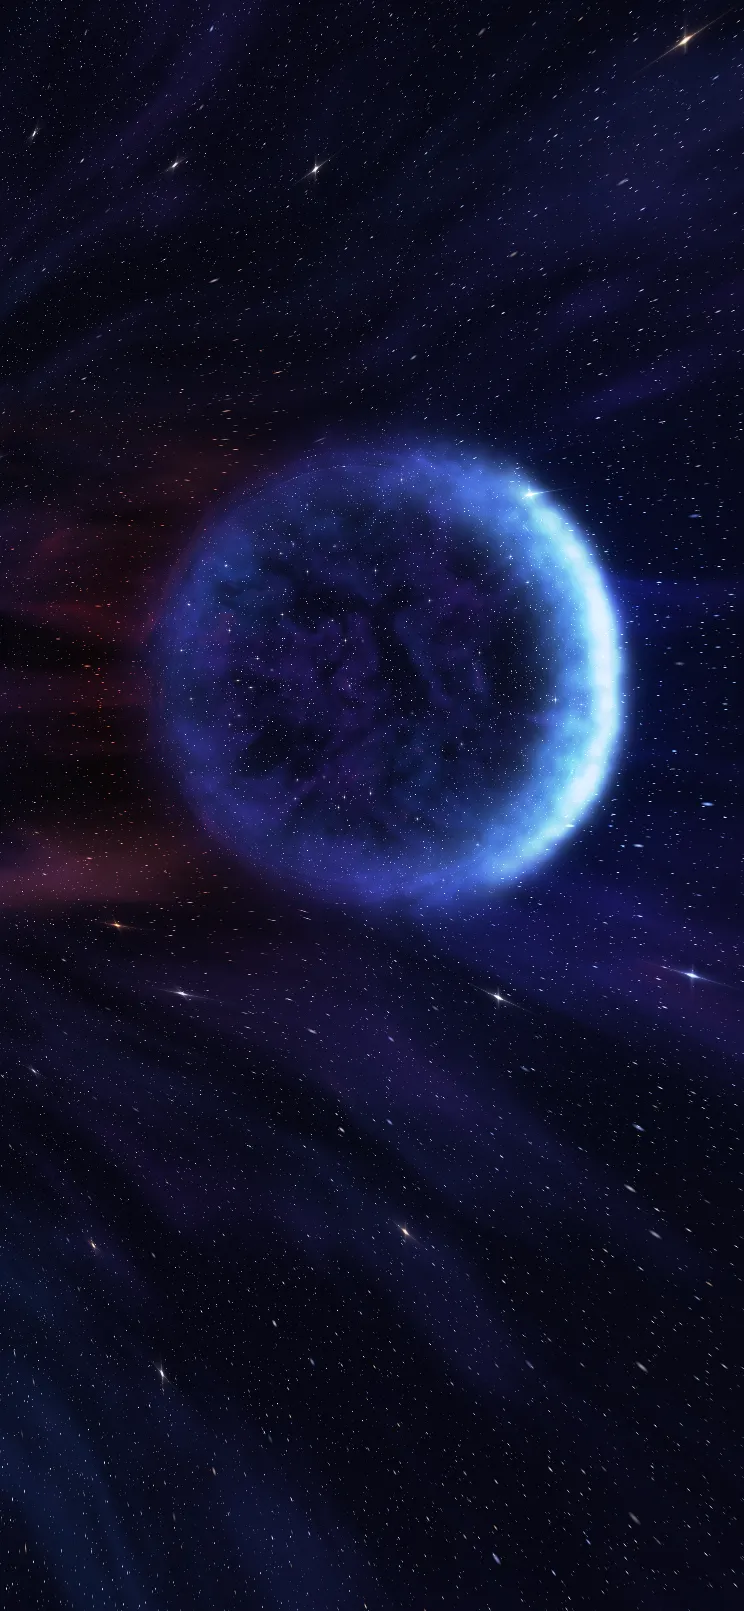
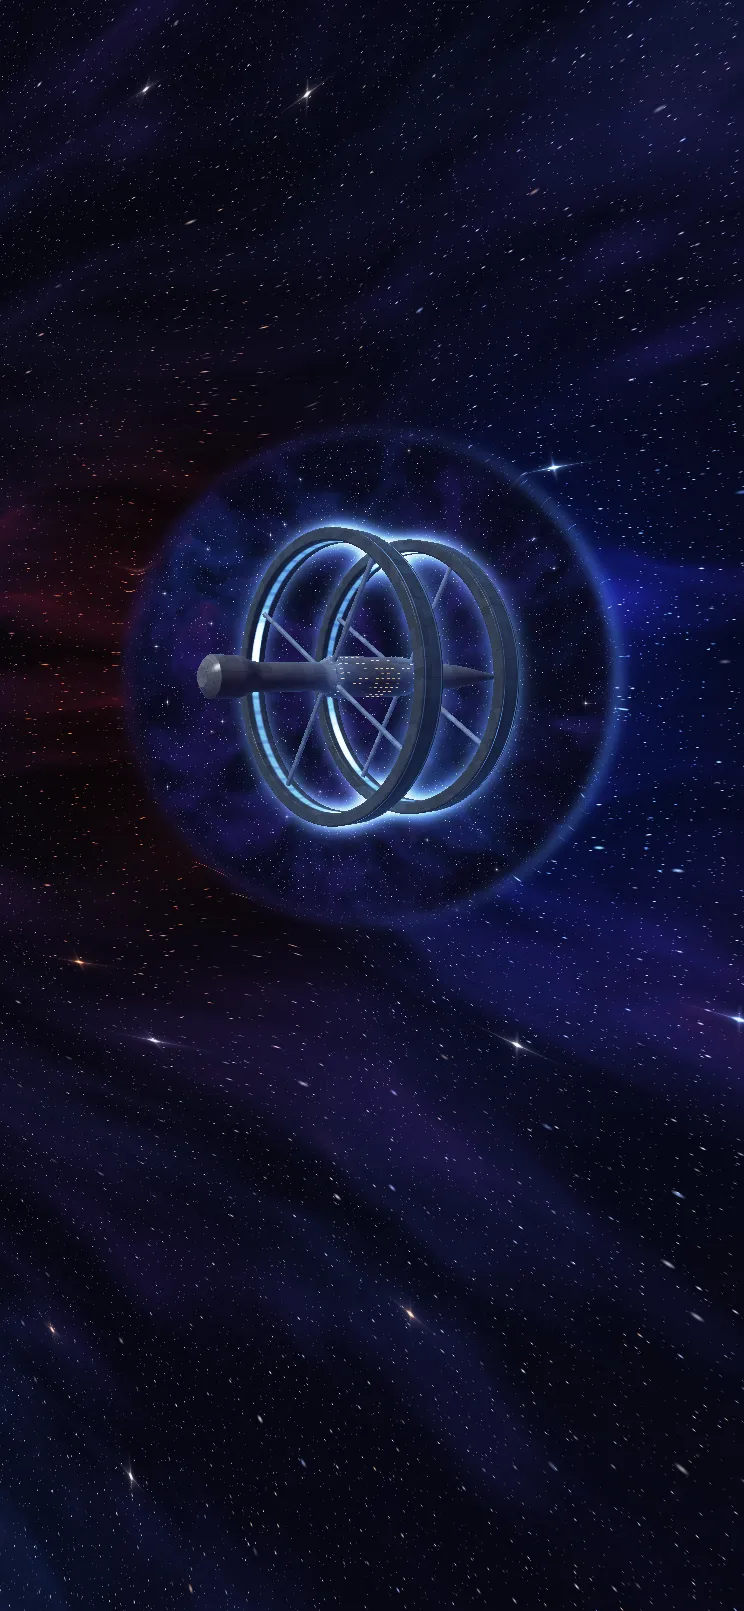
💄 style: Redraw the Warp Drive as a ring-drive machine

diff --git a/src/scene/scenes/warp-drive/index.tsx b/src/scene/scenes/warp-drive/index.tsx
@@ -1,12 +1,13 @@
 /**
- * Warp Drive (D-153): our own illustration of the Alcubierre warp drive, an idea inside the
- * Starbase. No ship is drawn (DESIGN_SPEC 2): only the bubble of calm, flat space it would ride in,
- * moving to the right. Ahead of it space is squeezed: the stars bunch up against the bubble's
- * front and shift blue; behind it space is stretched: the stars are drawn out thin and shift red.
- * Outside, the sky streams past; inside, it is nearly still. Where the two meet, a turbulent
- * sheath of glowing gas, a bright bow ahead and long wisps trailing behind, reads as the wall of
- * the bubble. One full-screen shader, one draw call, no particles. Its own colour family: indigo,
- * electric blue and ember red.
+ * Warp Drive (D-153, redrawn in D-191): our own illustration of an Alcubierre drive, an idea inside
+ * the Starbase, as a machine. A long, slender gunmetal hull, nose to the right, runs through two
+ * great rings, as warp craft are often drawn. The rings are the drive: each
+ * a band of dark plating on four struts, its inner face a channel of electric-blue light with pulses
+ * of energy running round it, and a soft glow of field about them. The craft sits in its bubble of
+ * calm space: outside, the sky streams past, bunched and shifted blue ahead, drawn out into red
+ * streaks behind; only a faint lens marks where the bubble's wall bends the starlight. Ray-marched
+ * in one full-screen shader: one draw call, no particles. Its own colour family: indigo, electric
+ * blue and ember red, with a gunmetal hull.
  */
 
 import type { SceneBudget, SceneProps } from "../../host/types";
@@ -26,68 +27,195 @@ ${SKY_CHUNK}
 const vec3 INDIGO = vec3(0.24, 0.2, 0.7);
 const vec3 BLUE = vec3(0.35, 0.65, 1.0);
 const vec3 EMBER = vec3(1.0, 0.36, 0.16);
+const vec3 METAL = vec3(0.5, 0.53, 0.6);
+const vec3 AMBER = vec3(1.0, 0.68, 0.32);
 
-float swirlIn(vec2 u, float t){ return fbm3(vec3(u * 2.0, t * 0.05 + 11.0)); }
+const float RING_R = 0.72;           // the rings' radius
+const float RING_A = -0.3;           // where they stand along the hull
+const float RING_B = 0.24;
+const float BUBBLE = 1.32;           // the bubble's radius on screen
 
 /* the sky in a flat 2D frame: x along the flight, y across it */
 vec3 skyAt(vec2 p){
   return skyDeep(normalize(vec3(p * 0.9, -1.0)), 0.6);
 }
 
+/* the hull's radius along its length: a needle nose, a broad middle, a stepped stern */
+float hullR(float x){
+  float nose = smoothstep(1.16, 0.55, x);
+  float mid = 0.035 * smoothstep(0.34, 0.24, abs(x + 0.03));       // the broad middle, between the rings
+  float stern = 0.03 * smoothstep(-0.74, -0.86, x);                // the engine block at the stern
+  float cap = sqrt(clamp((x + 1.03) / 0.05, 0.0, 1.0));             // rounded off at the very end
+  return (0.07 * nose + mid + stern) * cap;
+}
+
+float hull(vec3 p){
+  float x = clamp(p.x, -1.02, 1.16);
+  float d = length(p.yz) - hullR(x);
+  d = max(d, abs(p.x - 0.07) - 1.09);
+  return d * 0.8;
+}
+
+/* one ring: a flat band, wider along the hull than it is thick */
+float ringAt(vec3 p, float xr){
+  vec2 q = vec2(length(p.yz) - RING_R, p.x - xr);
+  vec2 b = abs(q) - vec2(0.022, 0.055);
+  return min(max(b.x, b.y), 0.0) + length(max(b, 0.0)) - 0.008;
+}
+
+float rings(vec3 p){ return min(ringAt(p, RING_A), ringAt(p, RING_B)); }
+
+/* four struts from the hull out to each ring, set at 45 degrees */
+float struts(vec3 p){
+  float a = atan(p.z, p.y) + TAU / 8.0;
+  float sector = TAU / 4.0;
+  a = mod(a + sector * 0.5, sector) - sector * 0.5;
+  float rho = length(p.yz);
+  vec2 s = vec2(rho * cos(a), rho * sin(a));
+  float along = abs(s.x - (RING_R + 0.08) * 0.5) - (RING_R - 0.08) * 0.5;
+  float da = max(along, length(vec2(s.y, p.x - RING_A)) - 0.011);
+  float db = max(along, length(vec2(s.y, p.x - RING_B)) - 0.011);
+  return min(da, db);
+}
+
+/* id: 0 hull, 1 ring, 2 strut */
+float craft(vec3 p, out float id){
+  float h = hull(p);
+  float r = rings(p);
+  float s = struts(p);
+  float d = h;
+  id = 0.0;
+  if (r < d) { d = r; id = 1.0; }
+  if (s < d) { d = s; id = 2.0; }
+  return d;
+}
+
+float sdf(vec3 p){ float id; return craft(p, id); }
+
+vec3 normalAt(vec3 p){
+  vec2 e = vec2(0.0012, 0.0);
+  return normalize(vec3(sdf(p + e.xyy) - sdf(p - e.xyy), sdf(p + e.yxy) - sdf(p - e.yxy), sdf(p + e.yyx) - sdf(p - e.yyx)));
+}
+
+/* the pulses of energy running round a ring, 0 to 1 */
+float pulses(vec3 p, float xr, float t){
+  float a = atan(p.z, p.y);
+  float dir = xr > 0.0 ? 1.0 : -1.0;                // the two rings run opposite ways
+  float w = 0.5 + 0.5 * sin(a * 3.0 - dir * t * 2.6 + xr * 4.0);
+  return 0.35 + 0.65 * pow(w, 6.0);
+}
+
 void main(){
   vec2 css = vec2(gl_FragCoord.x, uResolution.y - gl_FragCoord.y) / uDpr;
   vec2 q = css - uCentre;
   q.y = -q.y;
-  vec2 u = q / uScale;     // the bubble's radii, y up; it flies toward +x
+  vec2 u = q / uScale;     // the craft's lengths, y up
   float t = uTime;
-  // the drag turns the flight a little on screen
-  float turn = clamp(uYaw * 0.35, -0.5, 0.5);
-  float ct = cos(turn), sn = sin(turn);
-  u = vec2(ct * u.x + sn * u.y, -sn * u.x + ct * u.y);
-  float r = length(u);
-  float ahead = u.x / max(r, 1e-3);           // 1 straight ahead, -1 straight behind
 
-  // the shape of the bubble: 1 inside, 0 far outside, with a soft wall at r = 1
-  float inside = 1.0 - smoothstep(0.82, 1.12, r);
-  float wall = exp(-pow((r - 1.0) / 0.16, 2.0));
+  mat3 view = turnX(0.24 - uPitch) * turnY(-0.72 + uYaw);
+  vec3 ro = view * vec3(0.0, 0.0, 4.2);
+  vec3 rd = view * normalize(vec3(u, -4.2));
+  vec3 L = view * normalize(vec3(-0.45, 0.6, 0.65));       // the galaxy's quasar, up and to the left
 
-  // ---- space bent by the bubble: squeezed ahead, stretched behind ----
-  // outside, the sky streams past to the left; inside, it hardly moves
-  float stream = t * 0.22 * (1.0 - inside * 0.94);
-  vec2 p = u;
+  // ---- the sky, bent by the bubble round the craft ----
+  // the flight's direction on screen: the hull's axis seen through the view
+  vec3 fx = vec3(1.0, 0.0, 0.0) * view;
+  vec2 fwd = normalize(fx.xy);
+  vec2 b = vec2(dot(u, fwd), dot(u, vec2(-fwd.y, fwd.x))) / BUBBLE;   // x along the flight, in bubble radii
+  float r = length(b);
+  float ahead = b.x / max(r, 1e-3);                 // 1 straight ahead, -1 straight behind
+  float inside = 1.0 - smoothstep(0.9, 1.06, r);
   float outside = 1.0 - inside;
-  // ahead, the sky is pulled toward the wall (bunched); behind, pushed away from it (drawn out)
   float bend = exp(-max(r - 1.0, 0.0) * 1.6) * outside;
-  p += (u / max(r, 1e-3)) * bend * mix(0.55, -0.25, 0.5 + 0.5 * ahead);
-  // behind, stretched along the flight: the stars draw out into soft streaks
+  vec2 p = b;
+  p += (b / max(r, 1e-3)) * bend * mix(0.55, -0.25, 0.5 + 0.5 * ahead);
   float stretch = 1.0 + 5.0 * bend * smoothstep(0.1, -0.8, ahead);
   p.x = p.x / stretch;
-  p.x += stream;
+  p.x += t * 0.22;                                  // outside, the sky streams past
   vec3 col = skyAt(p) * (0.75 + 0.6 * bend * smoothstep(-0.2, 0.8, ahead));
-  // and shifted: blue ahead, red behind, strongest near the wall
-  float shift = bend * 1.4;
-  vec3 tint = mix(vec3(1.0), ahead > 0.0 ? BLUE * 1.5 : EMBER * 1.6, clamp(abs(ahead) * shift, 0.0, 0.85));
+  vec3 tint = mix(vec3(1.0), ahead > 0.0 ? BLUE * 1.5 : EMBER * 1.6, clamp(abs(ahead) * bend * 1.4, 0.0, 0.85));
   col *= tint;
-  // inside: calm, flat space, a little dimmer and cooler, the sky barely bent
-  col = mix(col, skyAt(u * 0.92 + vec2(t * 0.013, 0.0)) * vec3(1.0, 1.02, 1.1), inside);
-  // its inner face: a faint, uneven sheen, so it reads as clear and curved
-  col += mix(INDIGO, BLUE, 0.4) * 0.12 * inside * pow(smoothstep(0.35, 1.0, r), 3.0) * (0.6 + 0.8 * swirlIn(u, t));
+  // inside: calm, flat space, nearly still
+  col = mix(col, skyAt(b * 0.92 + vec2(t * 0.012, 0.0)) * vec3(0.9, 0.93, 1.05), inside);
+  // the wall: only a faint lens, brighter ahead where space is squeezed
+  float lens = exp(-pow((r - 1.0) / 0.035, 2.0));
+  col += mix(INDIGO, BLUE, smoothstep(-0.6, 0.9, ahead)) * lens * (0.1 + 0.16 * smoothstep(0.2, 1.0, ahead));
 
-  // ---- the wall: a turbulent sheath of glowing gas, bright bow ahead, wisps behind ----
-  float swirl = fbm3(vec3(u * 3.2 + vec2(-t * 0.5, 0.0), t * 0.15));
-  float fine = fbm3(vec3(u * 9.0 + vec2(-t * 1.1, 0.0), 3.0 + t * 0.2));
-  float sheath = wall * (0.35 + 1.1 * swirl * fine) * mix(0.35, 1.3, smoothstep(-0.4, 0.95, ahead));
-  // the bow: pushed out a little ahead, as gas piles up there
-  float bow = exp(-pow((r - 1.08 - 0.06 * swirl) / 0.07, 2.0)) * smoothstep(0.35, 0.95, ahead) * (0.6 + 0.8 * fine);
-  // the wake: wisps trailing behind, broken up by the noise so they read as gas
-  float wakeY = abs(u.y) - 0.92;
-  float wake = exp(-wakeY * wakeY / 0.05) * smoothstep(-0.2, -1.8, u.x) * exp(u.x * 0.45) * smoothstep(0.35, 0.75, fbm3(vec3(u.x * 1.4 + t * 0.9, u.y * 5.0, 7.0)));
-  vec3 gas = mix(INDIGO, BLUE, smoothstep(-0.3, 0.9, ahead)) * sheath;
-  gas += mix(BLUE, vec3(0.85, 0.92, 1.0), 0.5) * bow * 1.1;
-  gas += mix(EMBER, INDIGO, 0.35) * wake * 0.55;
-  col += gas;
-  // a faint lens of light across the bubble's face, as if its wall caught the starlight
-  col += BLUE * 0.06 * inside * smoothstep(0.5, 1.0, r);
+  // ---- the craft ----
+  float glow = 0.0;
+  float bq = dot(ro, rd);
+  float cc = dot(ro, ro) - 1.4 * 1.4;
+  float disc = bq * bq - cc;
+  if (disc > 0.0) {
+    float s = max(-bq - sqrt(disc), 0.0);
+    float far = -bq + sqrt(disc);
+    float id = 0.0;
+    bool hit = false;
+    for (int i = 0; i < 120; i++) {
+      if (i >= 70 + 25 * uDetail || s > far) break;
+      vec3 pp = ro + rd * s;
+      float h = craft(pp, id);
+      // the field about the rings: light gathered along the ray as it passes near them
+      float dr = rings(pp);
+      glow += exp(-max(dr, 0.0) * 22.0) * min(h, 0.06);
+      if (h < 0.0006 * s) { hit = true; break; }
+      s += h * 0.8;
+    }
+    // the field's colour: electric blue, whiter close in
+    col += BLUE * glow * 1.6 + vec3(0.7, 0.85, 1.0) * glow * glow * 6.0;
+
+    if (hit) {
+      vec3 pp = ro + rd * s;
+      vec3 n = normalAt(pp);
+      vec3 v = -rd;
+      float diff = max(dot(n, L), 0.0);
+      float spec = pow(max(dot(reflect(-L, n), v), 0.0), 40.0);
+      float rim = pow(1.0 - max(dot(n, v), 0.0), 3.0);
+      // plating: panels of slightly different tone, cut by dark seams
+      vec3 cell = pp * vec3(16.0, 22.0, 22.0);
+      float plate = hash3(floor(cell));
+      vec3 fc = abs(fract(cell) - 0.5);
+      float seam = smoothstep(0.47, 0.5, max(fc.x, max(fc.y, fc.z)));
+      vec3 metal = METAL * (0.75 + 0.18 * plate) * (1.0 - 0.2 * seam);
+      // the rings light the hull from both sides; the night side keeps a deep indigo fill
+      float near = exp(-min(abs(pp.x - RING_A), abs(pp.x - RING_B)) * 7.0);
+      vec3 base = metal * (0.08 + 0.85 * diff) + INDIGO * 0.18 * (1.0 - diff) + vec3(0.9, 0.95, 1.0) * spec * 0.6
+        + BLUE * rim * 0.25 + BLUE * metal * near * 0.5;
+
+      if (id < 0.5) {
+        // the hull: a row of amber windows along the broad middle, and running lights
+        float mid = smoothstep(0.31, 0.26, abs(pp.x + 0.03));
+        float a = atan(pp.z, pp.y);
+        vec2 w = vec2(pp.x * 26.0, a * 4.0);
+        vec2 wf = fract(w) - 0.5;
+        float lit = step(0.45, hash3(vec3(floor(w), 3.0)));
+        float win = smoothstep(0.3, 0.2, abs(wf.x)) * smoothstep(0.12, 0.06, abs(wf.y));
+        base += AMBER * win * lit * mid * 0.9;
+        // a blue beacon at the nose, a red one at the stern, blinking slowly
+        float blink = step(0.85, fract(t * 0.5));
+        base += BLUE * 3.0 * exp(-length(pp - vec3(1.13, 0.0, 0.0)) * 60.0);
+        base += EMBER * 2.5 * blink * exp(-length(pp - vec3(-1.02, 0.0, 0.0)) * 50.0);
+      }
+      if (id > 0.5 && id < 1.5) {
+        // a ring: dark plating outside, and on its inner face a channel of light with pulses running round
+        float xr = abs(pp.x - RING_A) < abs(pp.x - RING_B) ? RING_A : RING_B;
+        float rho = length(pp.yz);
+        float innerFace = smoothstep(RING_R - 0.012, RING_R - 0.028, rho);
+        float channel = smoothstep(0.03, 0.012, abs(pp.x - xr));
+        float pulse = pulses(pp, xr, t);
+        // segments of the band, like coils
+        float a = atan(pp.z, pp.y);
+        float coil = smoothstep(0.08, 0.2, abs(fract(a * 48.0 / TAU) - 0.5));
+        base *= 0.55;
+        base += BLUE * channel * innerFace * pulse * 2.2 * (0.7 + 0.3 * coil);
+        base += vec3(0.85, 0.93, 1.0) * channel * innerFace * pow(pulse, 3.0) * 1.2;
+        // the rim of each band carries a thinner line of light
+        float edge = smoothstep(0.006, 0.0, abs(abs(pp.x - xr) - 0.05)) * (1.0 - innerFace);
+        base += BLUE * edge * pulse * 0.8;
+      }
+      col = base + BLUE * glow * 0.6;
+    }
+  }
 
   col = col / (1.0 + max(col - 0.85, 0.0) * 0.85);
   gl_FragColor = vec4(col, 1.0);
@@ -96,8 +224,8 @@ void main(){
 
 const CONFIG: OrbConfig = {
   fragment: FRAGMENT,
-  // the bubble across about half a laptop's height; all the way in it nearly fills it
-  framing: (width, height) => Math.min(width * 0.23, height * 0.29),
+  // the craft about half a laptop's width; all the way in it nearly fills it
+  framing: (width, height) => Math.min(width * 0.2, height * 0.3),
   close: 1.25,
   arriveFrom: 0.3,
   detail: { low: 0, medium: 1, high: 2 },

diff --git a/context/DECISIONS.md b/context/DECISIONS.md
@@ -287,3 +287,4 @@ The owner clicked through S1: "Much better", then asked for the changes below, w
 | D-188 | **Small fixes (owner, 2026-11-24).** (1) The video button's play icon is larger (26 px, was 20). (2) A drag in the Multiverse turns every universe of the line, as it turns ours: the multiverse shader takes `uTurn` (half the yaw and pitch, as `frameUniverse`'s spin). (3) Tooltips: the browser's plain `title` boxes are gone; a control named by an icon alone carries `data-tip` (with `data-tip-below` and `data-tip-end` for placement), drawn by `globals.css` as a small glass pill in the dock's style that fades in on hover and keyboard focus, never on touch; the control keeps its `aria-label`. Used on the video and Sound buttons. (4) The cosmic web and the supervoid swap loops (`TRACKS` in `src/lib/sound.ts`). | The owner: a slightly bigger play icon; "dragging only seems to affect the original universe object"; "improve the styling of the tooltip"; "the cosmic web and supervoid scenes should switch musics". | |
 | D-189 | **The Last Civilization, and Von Neumann Probes redrawn (owner, 2026-11-24).** (1) **The Last Civilization** (`/last-civilization`), a megastructure in A Quasar Galaxy (anchor `hibernator`, r 0.66, a 1.85), after Kurzgesagt's "We Found a Loophole to Survive the End of the Universe" (its video). The video names no object; its sources centre on Dyson's hibernation strategy, so the owner chose "a hibernating harvester": a near-black shell of panels round a dim white dwarf, its seams leaking cold starlight, ringed by a thin cyan store that fills while they sleep; four wakings per 34 s cycle, each further from the last, when amber windows burn across the shell and the store dims. Line: "Imagined life that hibernates on a finite store of energy, perhaps forever.", from Dyson 1979 (Rev. Mod. Phys. 51, 447): "Life and communication can continue for ever, utilizing a finite store of energy, if the assumed scaling laws are valid"; "life has another strategy … namely hibernation. Life may metabolize intermittently" (read from the PDF, checked 2026-11-24). Music: Epic Mountain's "Death" (the video's own soundtrack is not out). (2) **Von Neumann Probes** now shows self-copying, not a spreading front: one probe flies into a dim star's belt, takes a rock apart and two copies leave it, each for another rock (a binary tree, rock i to 2i+1 and 2i+2): 1, 2, 4, 8, 16, then the last generation's 32 leave for other stars; the belt's dust thins as it is eaten; 34 s cycle. Line unchanged. | The owner: "a scene for this object in quasar galaxy" (the video); the probes scene "just looks like a spiral but I want to show self-replicating probes increasing in number as they consume the raw material". | A white dwarf alone (the owner chose the harvester); probes as a galaxy-wide front (the old look). |
 | D-190 | **Into the smallest: a cell down to strings (owner, grilled, 2026-11-24).** The Starbase's Quarks and String Theory bays go; one new bay, A Human Cell (nine bays). From it a chain of places, each inside the last (D-132), each dived into through a body of the one above: **A Human Cell** (`human-cell`: rose membrane, violet nucleus, amber mitochondria, ER folds, vesicles; body `dna` at the nucleus) → **DNA** (`dna`: a turning double helix of beads, base pairs coloured A–T and G–C; body `atom`, a gold backbone atom) → **A Carbon Atom** (`carbon-atom`: quantum clouds, 1s, 2s with its node, carbon's two occupied 2p orbitals with their two phases in two colours; no orbits; body `nucleus`) → **Its Nucleus** (`carbon-nucleus`: six protons and six neutrons at an icosahedron's corners, jostling in a warm strong-force haze; body `quarks`, one proton) → **Quarks** (now inside the nucleus; its junction is a new body `stringtheory`) → **String Theory** (now inside Quarks). The menu keeps the whole chain in the Starbase's group. Lines, each checked on the live page 2026-11-24: "Life's basic building block; an adult holds 10 to 100 trillion." (NHGRI Cell: "A cell is the basic building block of living things."; "between 10 and 100 trillion cells"); "A double helix carrying the genetic information to build and run you." (NHGRI DNA: "carries genetic information for the development and functioning of an organism"; "a shape known as a double helix"); "A cloud of electrons round a nucleus under 0.01% of its volume." (DOE Electrons: "electrons surround nuclei in a cloud divided into shells"; DOE Nuclei: "less than .01% of the volume of the atom"); "Six protons and six neutrons, held together by the strong force." (DOE Protons: "carbon has six protons and six neutrons"; DOE Strong Force: "holds protons and neutrons together to form atomic nuclei"). A guided flight, **Into the Smallest**: Starbase → cell → DNA → atom → nucleus → quarks → strings. Each new place has a Kurzgesagt video and its own Epic Mountain loop (Immune System 2, Impossible Machine, Atoms, Project Sundial). | The owner: "for starbase, add a cell, and then zoom through the levels combining atoms, quarks, string theory"; in the grilling: a chain of places, six levels, a human cell, a quantum-cloud atom, a guided flight. | One continuous zoom scene (a much bigger build, and it would redo Quarks and String Theory); an electron branch; classic Bohr orbits (outdated). |
+| D-191 | **Warp Drive redrawn as a machine (owner, 2026-11-24).** The scene now shows the drive itself, ray-marched: a long, slender gunmetal hull (needle nose to the right, a broad middle with amber windows, a rounded engine block at the stern, a blue beacon at the nose and a blinking red one at the stern) running through two great rings on four struts each. The rings are the drive: dark plated bands whose inner faces carry a channel of electric-blue light, pulses running round each ring in opposite directions, with a soft glow of field about them. The bubble stays, but quieter: the turbulent gas sheath is gone and only a faint lens marks the wall; outside, the sky still streams past, bunched and blue ahead, drawn into red streaks behind. Seen from ahead and to one side, lit from up and left by the galaxy's quasar. Same line, source and colour family. This supersedes D-153's "no ship is drawn" for this place, as the Generation Ship and Starbase already draw machines as the place itself. | The owner: "it doesn't look like technology, it looks like a warp bubble or something". | Keeping the bubble alone with more gas (still reads as a bubble); a full starship with nacelles (reads as fiction, and the rings are what makes a warp drive read as one). |

diff --git a/context/PROGRESS_TRACKER.md b/context/PROGRESS_TRACKER.md
@@ -80,6 +80,7 @@ Limits: draw calls on `low` under 30, scene chunks under 40 KB. Tests that need 
 ## Session Log
 
 - **2026-11-24 (into the smallest), D-190:** After a grilling: the Starbase's cell bay leads down a chain, A Human Cell → DNA → A Carbon Atom → Its Nucleus → Quarks → String Theory, each inside the last, each with a sourced line (NHGRI, DOE), a video and its own loop; a guided flight, Into the Smallest. 50 places. **Checked:** `npm run check`, `npm run build`, stills of the four new levels and the Starbase on laptop and phone, each page's links down and back up, the flight in the menu, posters and share images rendered.
+- **2026-11-24 (scene refinement), D-191:** Warp Drive redrawn as a machine: a slender hull through two glowing drive rings, the bubble reduced to a faint lens round it. **Checked:** `npm run check`, `npm run build`, `npm run shots -- warp` (laptop, phone, reduced motion), poster and share image re-rendered.
 - **2026-11-24 (new place, probes), D-189:** The Last Civilization (a hibernating civilization round a dim white dwarf, in A Quasar Galaxy, with its own loop) and a redrawn Von Neumann Probes (a binary tree of self-copying probes eating a belt). 46 places. **Checked:** `npm run check`, `npm run build`, stills of both (awake and asleep; mid-tree and leaving) on laptop and phone, the new hotspot's place in the Quasar Galaxy, posters and share images rendered.
 - **2026-11-24 (small fixes), D-188:** Larger play icon; a drag turns every universe in the Multiverse; glass tooltips (`data-tip`) on the video and Sound buttons; the web and supervoid swap music. **Checked:** `npm run check`; live in Chrome: the Multiverse before and after a drag, both tooltips on hover.
 - **2026-11-24 (the ending), D-187:** Zoom Out past the Omniverse is now a cinematic ending: fade to black, the two lines rise out of a blur one after the other, then Return. The music key is read under `Music` or `MUSIC_KEY`. **Checked:** `npm run check`; live in Chrome: the ending at several moments, Return closes it, the Omniverse loop loads with the key under `MUSIC_KEY`.
